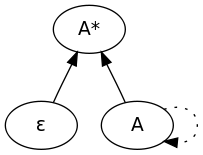
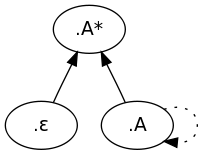
-Updated.

Changed region(s): [[0.3547, 0.129, 0.5025, 0.2323], [0.6207, 0.7484, 0.7389, 0.8516], [0.1478, 0.7742, 0.2365, 0.8516]]

diff --git a/SGLL/doc/SBFGTD.tex b/SGLL/doc/SBFGTD.tex
@@ -41,7 +41,7 @@ If the abstract didn't catch your attention yet, here are some highlights:
  \item Low constant overhead.
 \end{itemize}
 
-For out parser chose for a top down approach, as it is more in-line with human thinking then bottom-up. This makes the algorithm and implementation easier to comprehend. Ultimately it should also make its usage easier, since grammars can more easily be converted to input for the parser; the translation is one-on-one and does not require any extra work, like is necessary when generating parse tables.
+For out parser chose for a top down approach, as it is more in-line with human thinking then bottom-up. This makes the algorithm and implementation easier to comprehend. Ultimately it should also make its usage simpler, since grammars can more easily be converted to input for the parser; the translation is one-on-one and does not require any extra work, unlike what is necessary when generating parse tables.
 
 However, general top-down parsers do have the image of being slower then general bottom-up parsers. Mostly because they tend to perform poorly on non-left-factored grammars. Additionally, they usually try to recover from parse errors by back-tracking, which does not scale well, especially in absence of memorization.
 
@@ -93,7 +93,7 @@ main(){
 \end{verbatim}
 }
 
-This is the main function of the recognizer. It starts with building the stacks for the first level, by queuing the 'start node' and expanding it. Once it has done so it will keep alternating between reducing and expanding until there are no more stacks left alive. At the start of each iteration we check whether or not we need another iteration in the current level or need to shift to the next one. In case we shifted we need to discard all level specific data from the previous level. This check is necessary to be able to handle epsilons / nullables properly.
+This is the main function of the recognizer. It starts with building the stacks for the first level, by queuing the 'start node' and expanding it. Once it has done so it will keep alternating between reducing and expanding until there are no more stacks left alive. At the start of each iteration we check whether or not we need another iteration in the current level or need to shift to the next one. In case we shifted we need to discard all level specific data from the previous level. This behaviour is necessary to be able to handle epsilons / nullables properly.
 
 {\small
 \begin{verbatim}
@@ -120,7 +120,7 @@ expand(){
 \end{verbatim}
 }
 
-This is the expand loop. It will iterate over the {\bf toExpandSet} until there are no more stacks queued for expansion. While expanding we check the type of the node we are handling. If the node is a terminal it needs to match the input; if it does, it is added to the {\bf toReduceSet}. Otherwise, if the node is a non-terminal, we retrieve its 'children', add edges from these children to the current node and queue them for expansion (if not done so already), by adding them to the {\bf toExpandSet}. In case a child node is present in the {\bf expandedSet} it has already been expanded and won't be queued again. Additionally we will need to add the edge to the equivalent node from the {\bf expandedSet} instead of the current child node.
+This is the expand loop. It will iterate over the {\bf toExpandSet} until there are no more stacks queued for expansion. While expanding we check the type of the node we are handling. If the node is a terminal it needs to match the input. If it matches, it is added to the {\bf toReduceSet};, otherwise we discard it, causing the stack it was associated with to die of. If the node is a non-terminal, we retrieve its 'children', add edges from these children to the current node and queue them for expansion (if not done so already), by adding them to the {\bf toExpandSet}. In case a child node is present in the {\bf expandedSet} it has already been expanded and won't be queued again. Additionally we will need to add an edge to the equivalent node from the {\bf expandedSet} instead of the current child node.
 
 {\small
 \begin{verbatim}
@@ -153,7 +153,7 @@ reduce(){
 
 This is the reduce loop. It will iterate over the {\bf toReduceSet} until there are no more stacks queued for reduction. When a node is being reduced, one of two things can happen. Either it is the last node in the production and we need to queue this node's 'parents' for reduction (if not reduced of queued for reduction already), by adding them to the {\bf toReduceSet}. Otherwise we need to move to the 'next' node in the production and queue this 'next' node for expansion and transfer all edges from this node to the next. In case the 'next' node has already been scheduled for expansion we need to retrieve the equivalent 'next' node from the {\bf toExpandSet} and add the edges to that node instead.
 
-The edges are grouped by level. This level indicates the start location of the node the edge points to. To check whether or not the parents of a node need to be queued for reduction, we get one of the edges from each {\bf edgeLevel} and check if the nodes the edges point to have been reduced yet or not. If a node hasn't been reduced yet, we queue all of the nodes that are pointed to from edges in that {\bf edgeLevel} for reduction; otherwise we don't. This works since every node containing a non-terminal of the same sort always has exactly the same parents in the same level. Note that for the recognizer this behaviour is not a necessity, but an optimization (Which improves performance by a factor between one and the number of non-terminals in the grammar). However for the parser this behaviour is required to achieve proper sharing in the resulting trees (in an uncomplicated and fast way).
+The edges are grouped by level. This level indicates the start location of the node the edge points to. To check whether or not the parents of a node need to be queued for reduction, we get one of the edges from each {\bf edgeLevel} and check if the node this edge points to has been reduced yet or not. If a node hasn't been reduced yet, we queue all of the nodes that are pointed to from edges in that {\bf edgeLevel} for reduction; otherwise we don't. This will work correctly since every node containing a non-terminal of the same sort always has exactly the same parents in the same level. Note that for the recognizer this behaviour is not a necessity, but an optimization (which improves reduce performance by a factor between one and the number of non-terminals in the grammar). However for the parser this behaviour is required to achieve proper sharing in the resulting trees (in an uncomplicated and fast way).
 
 The {\bf reducedStore} is a dual layered data structure. The first layer is indexed by the {\bf start position} of the node and the second layer by the sort name of the non-terminal in the node. Since the recognizer algorithm assumes it is level synchronized, the {\bf reducedStore} can contain a variant for every non-terminal for each possible substrings up until the current location. This {\bf reducedStore} is necessary to keep track of which nodes have of haven't been reduced yet.
 
@@ -168,9 +168,9 @@ TODO: Prove.\\
 
 \subsection{From grammar to code}
 
-Converting a grammar to a recognizer or parser, either by hand writing or generating it, is relatively straight forward. All that is needed is a direct translation from the grammar rules to either functions or some kind of table like data structure. Basically it just needs to know what alternatives are associated with a each left-hand-side. In case we are generating code, this would mean that we need one function per non-terminal, which contains logic that informs the recognizer about what alternatives should be expected.
+Converting a grammar to a recognizer or parser, either by hand writing or generating it, is relatively straight forward. All that is needed is a direct translation from the grammar rules to either functions or some kind of table like data structure. Basically it just needs to know what alternatives are associated with a each left-hand-side. In case we are generating code, this would mean that we need one function per non-terminal sort, which contains logic that informs the recognizer about what alternatives should be expected.
 
-Since the mapping between the original grammar and the code or table is one-on-one, it is possible to implement or edit it by hand without much effort. Another advantage is that, in combination with the top-down-ness of our algorithm, it makes tracing errors in a grammar easier; if you'd want to know why something doesn't match at a certain position, you can just go through it with a debugger to see what happens. Your degree of success naturally depends on the amount of stacks that are alive at the moment you're trying to observe, but at least the possibility to do so exists.
+Since the mapping between the original grammar and the code or table is one-on-one, it is possible to implement or edit it by hand without much effort. Another advantage is that, in combination with the top-down-ness of our algorithm, it makes tracing errors in a grammar easier; if you'd want to know why something doesn't match at a certain position, you can just go through it with a debugger to see what happens (your degree of success naturally depends on the amount of stacks that are alive at the moment you're trying to observe, but at least the possibility to do so exists).
 
 \subsection{Example traces}
 
@@ -271,7 +271,7 @@ S(A+(A(a),A(a),A(aa))) & $A0$-$1$ $\leftarrow$ $A1$-$2$ $\leftarrow$ $A2$-$4$\\
 S(A+(A(a),A(aa),A(a))) & $A0$-$1$ $\leftarrow$ $A1$-$3$ $\leftarrow$ $A3$-$4$\\
 S(A+(A(aa),A(a),A(a))) & $A0$-$2$ $\leftarrow$ $A2$-$3$ $\leftarrow$ $A3$-$4$
 \end{tabular}
-\caption{'Flattened' version of the parse forest}
+\caption{A flattened representation of the parse forest, listing all derivations.}
 \end{table}
 
 \subsection{Psuedocode}
@@ -302,7 +302,7 @@ main()\{
 \end{alltt}
 }
 
-The only things that need to be changed in the main function to transform the recognizer into a parser are the returning of the final result (if not in error) and replacing the {\bf reducedStore} by {\bf resultStore}. The {\bf resultStore} is similar to the {\bf reducedStore}, except that it also contains the result associated with the non-terminals in the store.
+The only things that need to be changed in the main function to transform the recognizer into a parser are the returning of the final result (if not in error) and replacing the {\bf reducedStore} by {\bf resultStore}. The {\bf resultStore} is similar to the {\bf reducedStore}, except that it also contains the result associated with the non-terminal sorts in the store.
 
 {\small
 \begin{alltt}
@@ -329,7 +329,7 @@ expand()\{
 \end{alltt}
 }
 
-The expansion code does not need to change in any way, since it doesn't deal with parse results.
+The expansion code does not need to change in any way, since it doesn't deal with parse results. But we still list it here for completeness.
 
 {\small
 \begin{alltt}
@@ -366,7 +366,7 @@ reduce()\{
 
 The reduce code does need to be modified. Basically two things need to be added.
 
-First of all the storing of results. We need to create (at most) one {\bf result} per sort of non-terminal for each matched substring; no more then that. In the recognizer code we used the {\bf reducedStore} for a similar purpose. Here it is replaced by the {\bf resultStore}, which basically is the same thing, but with results associated with the sorts in the store.
+First of all the storing of results. We need to create (at most) one {\bf result} per sort of non-terminal for each matched substring; no more then that. In the recognizer code we used the {\bf reducedStore} for a similar purpose. Here it is replaced by the {\bf resultStore}, which basically is the same thing, but with results associated with the non-terminal sorts in the store.
 
 Secondly we need to add {\bf prefixes} to the nodes that are being queued for expansion when we are moving to the {\bf next} node in the production. We do this by creating a new prefix using the prefix of the current node and its result and adding it to the {\bf next} node.
 
@@ -379,7 +379,7 @@ Secondly we need to add {\bf prefixes} to the nodes that are being queued for ex
 \end{alltt}
 }
 
-We also need a function for creating {\bf results}. Every time a result is created we need to add it to the {\bf resultStore}. The {\bf start position} and {\bf sort} of the given node are used as keys. Like the {\bf reducedStore} the {\bf resultStore} is a dual layered datastructure, where the first layer is indexed using the {\bf start position} and the second layer by the {\bf sort} non-terminal the node represents.
+We also need a function for creating {\bf results}. Every time a result is created we need to add it to the {\bf resultStore}. The {\bf start position} and non-terminal {\bf sort} of the given node are used as keys. Like the {\bf reducedStore} the {\bf resultStore} is a dual layered datastructure, where the first layer is indexed using the {\bf start position} of the node and the second layer by the non-terminal {\bf sort} the node represents.
 
 \subsection{Correctness}
 
@@ -426,13 +426,13 @@ input = $a * 2$ to $a * 10$, $a * 50$, $a * 100$, $a * 200$, $a * 300$, $a * 400
 \caption{Worst-case parse tree data}
 \end{table}
 
-In the table above we can see how the different components in the parse forest increase with respect to the length of the input string. The number of results increases by $N$ for every extra character in the input string. As can be observed, the number of prefixes and number of nodes remains within cubic bounds for this worst-case example.
+In the table above we can see how the different components in the parse forest increase with respect to the length of the input string. The number of results increases by $N$ for every extra character in the input string. The number of results is always equal to the number of different substrings in the input. As can be observed, the number of prefixes and number of nodes remains within cubic bounds for this worst-case example.
 
 Note that GSS prefix-sharing was enabled while gathering the statistics for this example (see section \ref{sec:prefixSharing}). Without this optimization the number of prefixes and nodes would have been higher.
 
 \section{Extended capabilities}
 
-To improve the usefulness of the parser on real grammar a few additional features were added. Namely support for lists, optionals and location related features is added. In this chapter we will discuss their implementation.
+To improve the usefulness of the parser on real grammars a few additional features were added. Namely support for lists, optionals and location related features is added. In this chapter we will discuss how these features can be intergrated into our algorithm and implementation.
 
 \subsection{Lists}
 
@@ -445,7 +445,7 @@ Our approach involves special casing the handling of lists, by introducing addit
 \begin{figure}[H]
 \centering
 \includegraphics[scale=0.5]{star-list.png}
-\caption{GSS representation of a expanded star-list; the solid arrows represent edges and the dotted arrows 'next pointers'.}
+\caption{GSS representation of a expanded star-list; the solid arrows represent edges and the dotted arrows 'next pointers' in the production.}
 \end{figure}
 
 These list children can be shared just like any other GSS node. Nothing special needs to be done for this. Since this is the case, worst-case time and space bounds do not change by the introduction of this feature.
@@ -473,10 +473,10 @@ The basic algorithm is fairly straight forward and relatively simple to implemen
 \subsection{General}
 
 \subsubsection{Matching}
-A minor performance improvement can be made by matching on entire literals at once, instead of on characters. This decreases the amount of necessary GSS nodes and thus reduces stack activity.
+A minor performance improvement can be made by matching on entire literals at once, instead of on induvidual characters. This decreases the amount of necessary GSS nodes and thus reduces stack activity.
 
 \subsubsection{Look-ahead}
-A more obvious optimization is adding support for look-ahead filtering. Simply by adding simple checks to the (generated) parser code, we can prevent unnecessary work; if a certain alternative will never match, we don't need to expect it. The number of characters we look ahead is not limited by theoretical or practical constraints.
+A more obvious optimization is adding support for look-ahead filtering. Simply by adding simple checks to the (generated) parser code, we can prevent unnecessary work; if a certain alternative will never match, we don't need to expect it. The number of characters we look ahead is not limited by any theoretical or practical constraints.
 
 \subsection{Edge related}
 
@@ -519,16 +519,16 @@ This example clearly demonstrates quardratic behaviour. If we would cache the ed
 \end{enumerate}
 Now expansion completes in linear time. An additional benefit is that all the edge sets are shared between the children of the different $E$'s, saving memory. It will reduce the worst-case number of edges to $N\,*\,\mathit{numberOfUniqueLHS's}$. Originally this would have been $N\,*\,\mathit{numberOfProductions}^2$, so this is a massive improvement. The main benefit is, that this optimization lessens the need for the left-factoring of grammars. In absence of look-ahead filtering performance should be on par with the non-factored equivalent of the grammar; in cases where look-ahead information is used, it may be close enough to remove its necessity.
 
-Also note that this optimization is not only useful in case we have numereous non-factored productions. It also causes the set to edges to be shared between different alternatives associated with the same left-hand-side. So even if we would share the prefixes of all the alternatives (see \ref{sec:prefixSharing}), we would still gain something.
+Also note that this optimization is not only useful in case we have numereous non-factored productions. It also causes the set of edges to be shared between different alternatives associated with the same left-hand-side. So even if we would share the prefixes of all the alternatives (see \ref{sec:prefixSharing}), we would still gain something.
+
+TODO: Reword edge count stuff (note w/o sharing $N^2$; worst-case lower for expected, not for non-first nodes).
 
 \subsection{GSS}
 \label{sec:prefixSharing}
 
 In many grammars productions exist that start with the same symbols. There is no reason to do duplicate work for these symbols. For example, if we take the grammar rule: $S\,::=\,E\,+\,E\,|\,E\,-\,E$. Both $E$'s at the start of these productions will always be derived exactly the same way for the same substring(s) and thus they are equal. Because of this, the prefixes of these two productions may as well be merged; i.e. by converting the rule into $S\,::=\,E\,(+\,E\,|\,-\,E)$. It is trivial to modify our algorithm to support this. Simply by allowing every node in the GSS to have more then one 'next' node and assigning the same id to both $E$'s (to indicate they must be shared), the desired result can be achieved. Naturally the merged prefixes of grammar rules can be arbitrarily long and are not restricted to just two partially equal rules; as long as a rule's prefix overlaps with another rule it can be merged, regardless whether or not it already has been merged with another rule. This optimization ensures we can recognize and parse LR(k) grammars using just one stack, thus in linear time without any overhead.
 
-One may wonder why merging anything other then the prefixes of productions is not supported. While in theory sharing the postfixes of production is also possible, this is more complicated to implement (for reasons we won't elaborate on here) and opportunities to apply this optimization hardly ever occur in reality. For these reasons we decided not to add this feature to our recognizer / parser. Merging blocks of symbols that are not located at either the beginning or end of productions will never be possible when using our algorithm, since this may lead to incorrect results. For example if we'd shared the $B$ of the following alternatives: $S\,::=\,ABC\,|\,DBE$ we'd also end up with derivations for $ABE$ and $DBC$, which is obviously undesirable.
-
-TODO: Change stuff to items maybe?
+One may wonder why merging anything other then the prefixes of productions is not supported. While in theory sharing the postfixes of production is also possible, this is more complicated to implement (for reasons we won't elaborate on here) and opportunities to apply this optimization rarely occur in reality. For these reasons we decided not to add this feature to our recognizer / parser. Merging blocks of symbols that are not located at either the beginning or end of productions will never be possible when using our algorithm, since this may lead to incorrect results. For example if we'd shared the $B$ of the following alternatives: $S\,::=\,ABC\,|\,DBE$ we'd also end up with derivations for $ABE$ and $DBC$, which is obviously undesirable.
 
 \section{Filtering}
 
@@ -540,11 +540,11 @@ Follow restrictions work as a kind of look-ahead after the production; if the pr
 
 \subsection{Rejects}
 
-Reject filtering is intended for the removal of trees that are not considered to be correct at a certain location in the grammar. One could think of using it to filter alternatives for identifiers that match keywords, for example.
+Reject filtering is intended for the removal of trees that are not considered to be correct at a certain location in the grammar. One could think of using it for things like filtering alternatives for identifiers that match keywords in the language, for example.
 
-Any alternative of a production can be marked as reject. It this reject alternative matches, all other alternatives this reject belongs to are discarded. In our current implementation, rejected nodes are partially removed from the GSS at parse time and partially during post-parse filtering / flattening. Removing rejected stacks while parsing prevents unnecessary work from being performed; however it can be expensive to do in case the node at the end of a rejected alternative's edge is already reduced. This is the reason why it's not completely done at parse time.
+Any alternative of a production can be marked as reject. If this reject alternative matches, all other alternatives this reject belongs to are discarded. In our current implementation, rejected nodes are partially removed from the GSS at parse time and partially during post-parse filtering / flattening. Removing rejected stacks while parsing prevents unnecessary work from being performed; however it can be expensive to do in case the node at the end of a rejected alternative's edge is already reduced. This is the reason why it's not completely done at parse time.
 
-Reject alternatives can't be nested, since this may lead to incorrect behaviour. Consider the following grammar: $S\,::=\,A(r)\,|\,a,\,A\,::=\,B(r)\,|\,a,\,B\,::=\,a$. The reject edges are marked with $(r)$. In this case the order in which reductions are done will determine the final parse result. For example, we could follow the edges from $.a$ to $.A$ and then from $.A(r)$ to $.S$. This will cause $S.$ to be rejected, failing the parse. On the other hand, if we would have followed the edge from $.a$ to $.B$ first and then from $.B(r)$ to $.A$ we would end up with a successful parse, since the alternative $S ::= A(r)$ gets rejected, preventing the edge from $.A(r)$ to $.S$ from being followed. So if one writes a grammar to contains nested rejects it may, or may not do what was intended.
+Reject alternatives can't be nested, since this may lead to incorrect behaviour. Consider the following grammar: $S\,::=\,A(r)\,|\,a,\,A\,::=\,B(r)\,|\,a,\,B\,::=\,a$. The reject edges are marked with $(r)$. In this case the order in which reductions are done will determine the final parse result. For example, we could follow the edges from $.a$ to $.A$ and then from $.A(r)$ to $.S$. This will cause $S.$ to be rejected, failing the parse. On the other hand, if we would have followed the edge from $.a$ to $.B$ first and then from $.B(r)$ to $.A$ we would end up with a successful parse, since $A$ gets rejected, preventing the edge from $.A(r)$ to $.S$ from being followed. So if one writes a grammar to contains nested rejects it may, or may not do what was intended.
 
 It is possible to resolve this problem, however this would require a second pass over the tree. Additionally it would prevent us from being able to remove parses that will be filtered in the end, before exploring them further. So it would impact performance in more then one way.
 
@@ -552,7 +552,7 @@ It is possible to resolve this problem, however this would require a second pass
 
 Priorities and associativity restrictions are implemented as 'don't nest' relations. For example, if we take the grammar rule $E\,::=\,E\,*\,E\,>\,E\,+\,E$, this means that the production $E\,+\,E$ can't be a child of $E\,*\,E$ on either side of the production. $E\,::=\,E\,+\,E\,\{left\}$ on the other hand means that the production $E\,+\,E$ only can't be a child of itself on the right side of the production; similarly for $\{right\}$, but the other way around. If declared as $\{nonassoc\}$ it can't be nested on either side of itself.
 
-The current implementation handles priority and associativity filtering completely at parse time. While reducing it checks whether or not the reduction is allowed for the edge we want to follow; in case it is, it's stored in a result node that is identified by the sort name of the non-terminal of the node the edge points to and the key that indicates which other non-terminals with the same sort name have the same set of 'don't nest' relations. This is done to preserve sharing in the resulting tree. For example consider the following grammar rule: $E\,::=\,E * E\,\{left\}\,>\,(E + E\,|\,E - E)\{left\}$. Here $.E + E$ and $.E - E$ would share the same result nodes while parsing, just as $E+.E$ and $E-.E$, since their 'don't nest' relations are identical.
+The current implementation handles priority and associativity filtering completely at parse time. While reducing, it checks whether or not the reduction is allowed for the edge we want to follow; in case it is, it's stored in a result node that is identified by the sort name of the non-terminal of the node the edge points to and the set of 'don't nest' relations associated with this node. This is because the result needs to be shared between all non-terminals with the same sort and 'don't nest' relations. For example consider the following grammar rule: $E\,::=\,E * E\,\{left\}\,>\,(E + E\,|\,E - E)\{left\}$. Here $.E + E$ and $.E - E$ would share the same result nodes while parsing, just as $E+.E$ and $E-.E$, since their 'don't nest' relations are identical.
 
 The main advantage of handling priority and associativity filtering at parse time oppossed to implementing it as post-parse filter is that it is more efficient. We prevent the construction of results that will be thrown away later on, saving memory. Additionally it will prevent unnecessarilly exploring certain parses, because we can determine they will be filtered earlier on, increasing performance.
 
@@ -613,7 +613,7 @@ input = $a\,*\,50$ to $a\,*\,500$
 \caption{Worst-case recognizer and parser performance scaling.}
 \end{figure}
 
-Note however that the recognizer is optimized for speed and the parser for a balance between memory usage and speed (meaning a faster implementation is possible). Regardless of this, it clearly demonstates (close to) cubic worst-case behaviour, as expected (close to, since we can't eliminate JVM interference completely). Looking at the times, our implementation seems very efficient in worst-case scenarios.
+Note however that the recognizer is optimized for speed and the parser for a balance between memory usage and speed (meaning a faster implementation is possible at the cost of increased memory footprint). Regardless of this, our recognizer and parser implementations clearly demonstate cubic worst-case behaviour, as expected. Looking at the times, our implementation seems very efficient in worst-case scenarios.
 
 \subsection{LL and LR performance}
 
